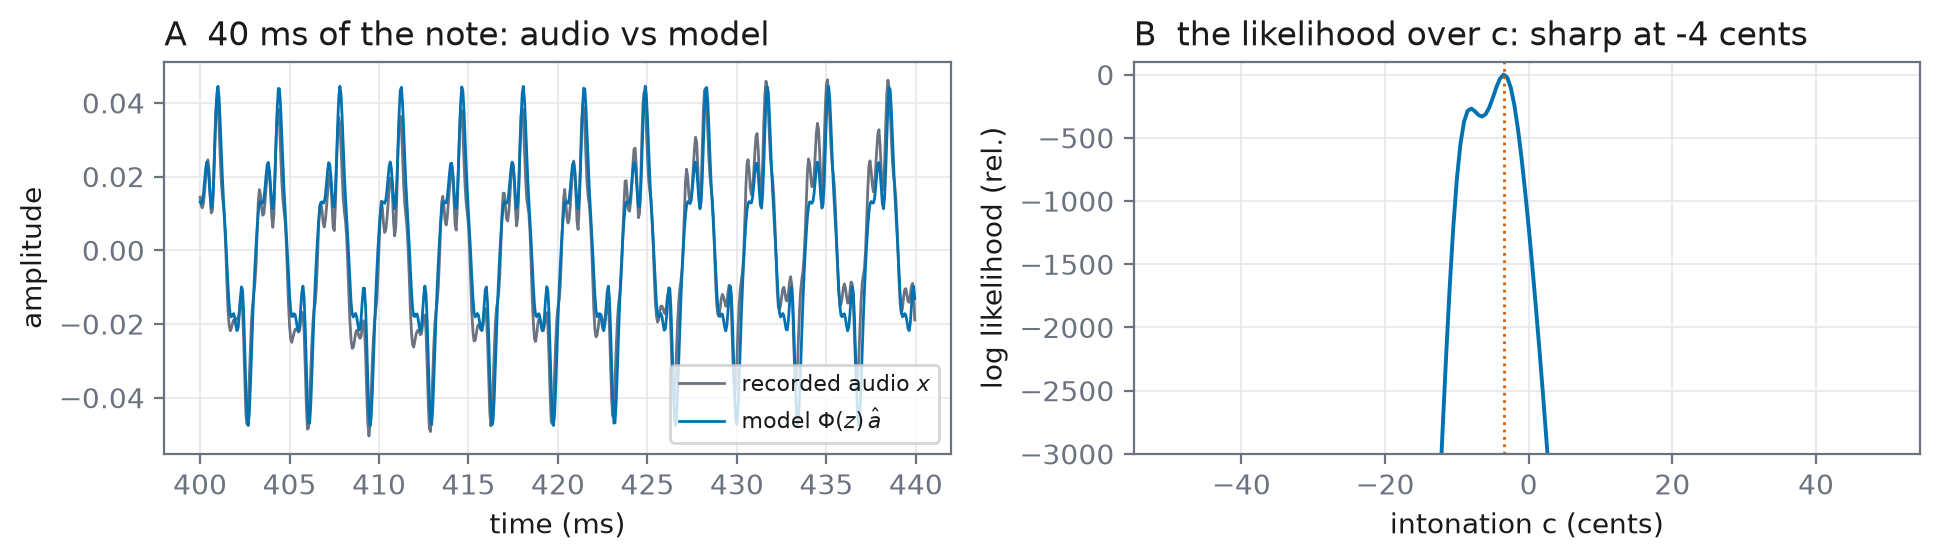
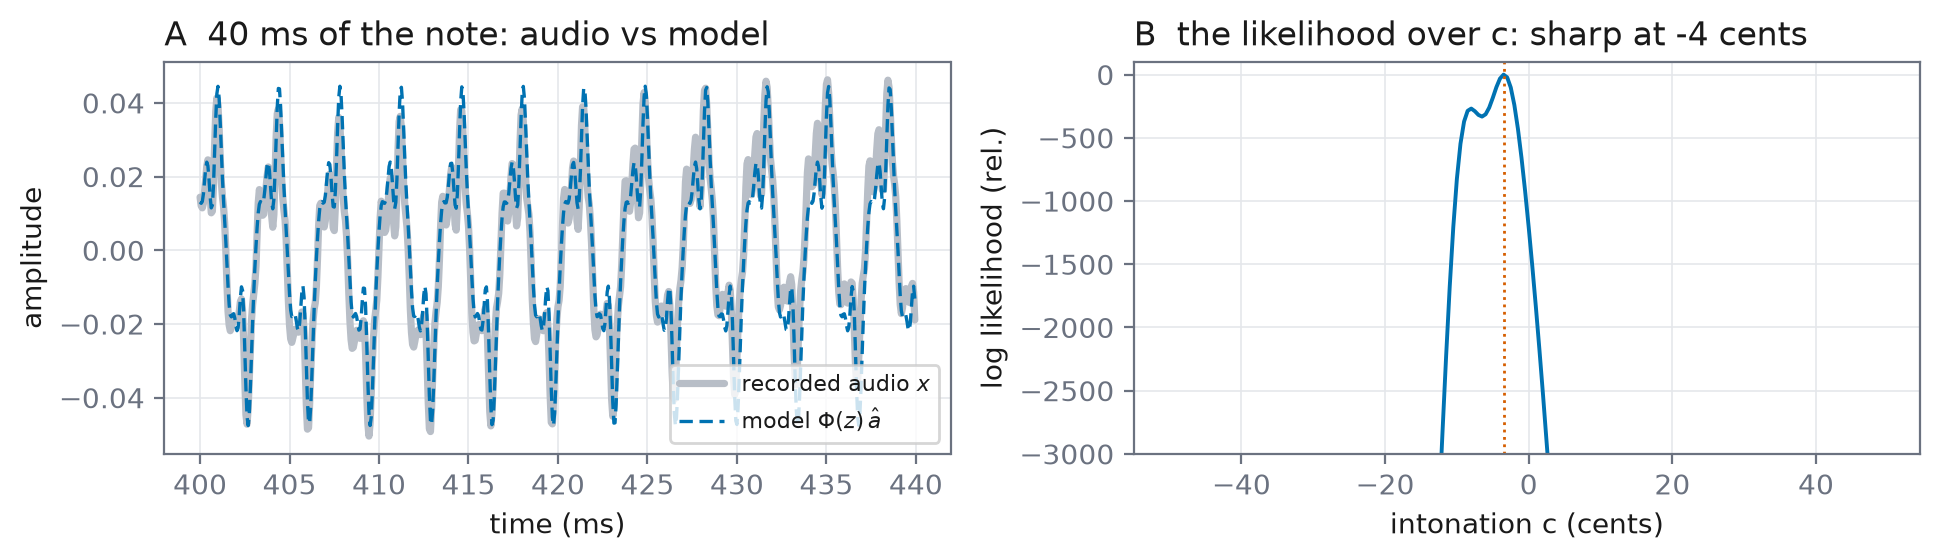
Waveform overlay contrast: wide light audio band, dashed blue model
Ray: gray vs blue on near-perfect overlap read as one line. Audio is
now a wide light-gray band, the model a dashed blue line on top, so
coincidence reads as a dash riding a band and mismatches pop. 32
slides.

Changed region(s): [[0.0928, 0.1518, 0.4948, 0.7893], [0.3402, 0.7286, 0.3711, 0.7589]]

diff --git a/scripts/make_waveform_viz.py b/scripts/make_waveform_viz.py
@@ -41,8 +41,9 @@ beta, *_ = np.linalg.lstsq(Phi, x, rcond=None)
 recon = Phi @ beta
 fig, (A, B) = plt.subplots(1, 2, figsize=(9.8, 2.9))
 w = slice(int(0.40 * SR), int(0.44 * SR))
-A.plot(t[w] * 1000, x[w], color=MUTED, lw=1.0, label="recorded audio $x$")
-A.plot(t[w] * 1000, recon[w], color=BLUE, lw=1.0,
+A.plot(t[w] * 1000, x[w], color="#B8BEC7", lw=2.6, solid_capstyle="round",
+       label="recorded audio $x$")
+A.plot(t[w] * 1000, recon[w], color=BLUE, lw=1.2, ls=(0, (4, 2)),
        label="model $\\Phi(z)\\,\\hat a$")
 A.set_xlabel("time (ms)"); A.set_ylabel("amplitude")
 A.set_title("A  40 ms of the note: audio vs model", loc="left")
